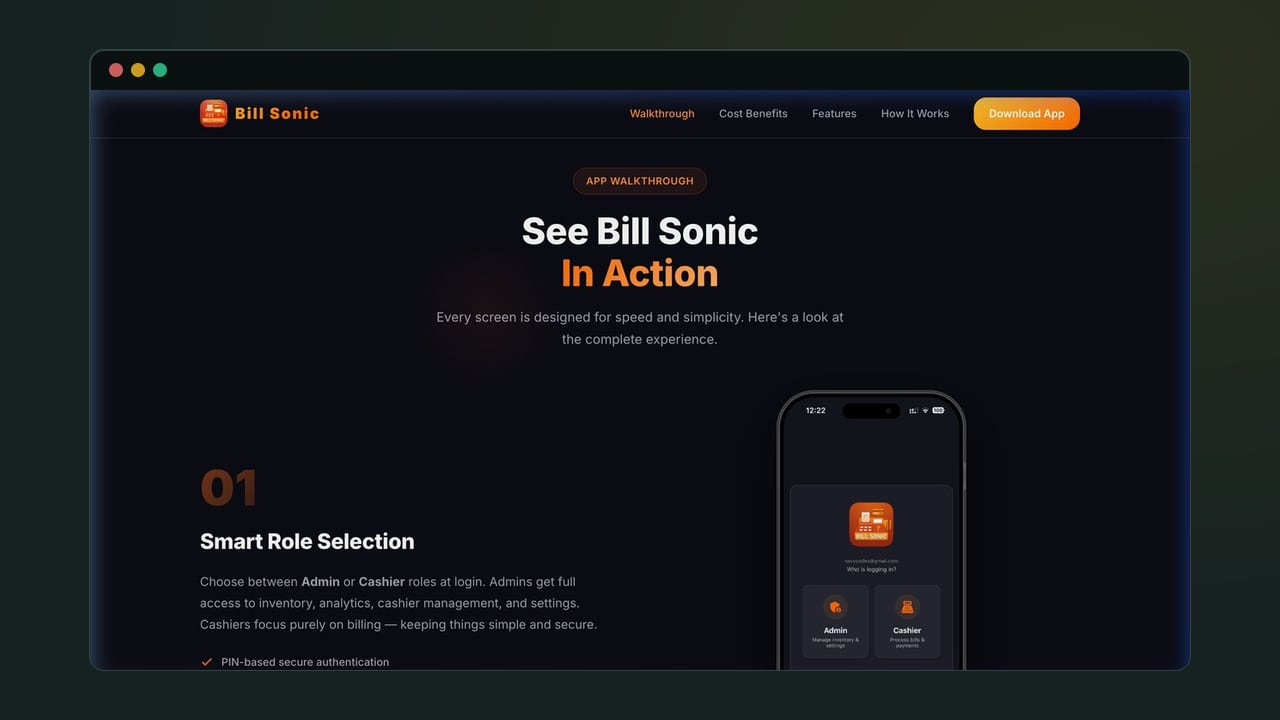
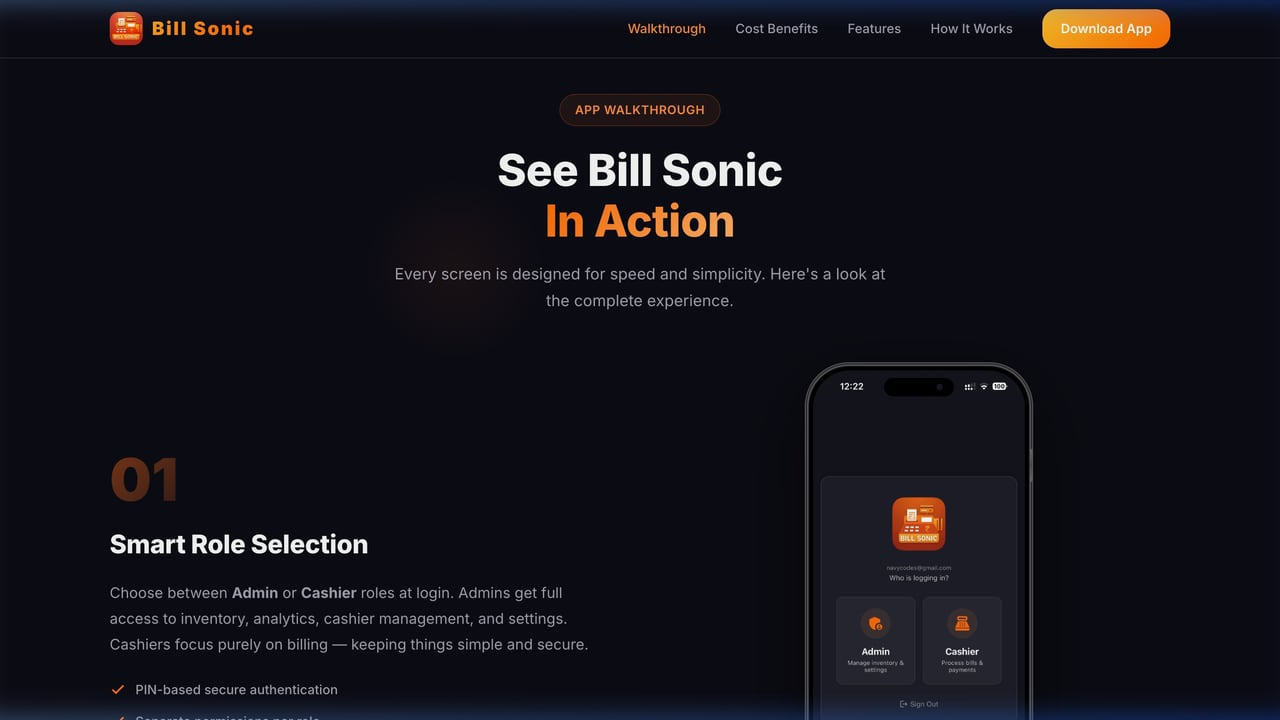
Thumbnails: original VedicFlow and Bill Sonic images, real GeoScout screenshot, no frames
Claude-Session: https://claude.ai/code/session_01Gi9NdFG1cQsiecXMp1WD36

Changed region(s): [[0.0, 0.0, 1.0, 1.0], [0.3125, 0.2139, 0.6875, 0.4889]]

diff --git a/README.md b/README.md
@@ -69,10 +69,9 @@ All content lives in `src/data/`. Adding an entry there creates its page, sitema
 |---|---|
 | `node scripts/make-diagrams.mjs` | Architecture diagrams in `src/assets/diagrams/` (projects and papers `paper-*.svg`) |
 | `node scripts/make-thumbnails.mjs` | Project thumbnails: the diagram, or a screenshot from `scripts/thumb-sources/` in a browser or phone frame. No project name on the image. |
-| `node scripts/make-geoscout-thumb.mjs` | GeoScout IQ thumbnail: a drawn hex heatmap with pins and a score card (the live demo needs Google Maps, so it can't be screenshotted here) |
 | `node scripts/make-og-image.mjs` | Link-preview card `public/og-image.png` |
 
-`scripts/thumb-data.mjs` lists which projects get which thumbnail style. Entries marked `custom` are skipped by `make-thumbnails.mjs`.
+`scripts/thumb-data.mjs` lists which projects get which thumbnail style. `frame: "none"` uses the screenshot as it is (VedicFlow, Bill Sonic, GeoScout IQ).
 
 ---
 
@@ -99,5 +98,5 @@ All content lives in `src/data/`. Adding an entry there creates its page, sitema
 - **Research pages:** each of the 5 papers has an architecture diagram, a flowchart, results tables and plain-language key points. Added the IECS 2026 paper *On-Demand Multimodal RAG*.
 - **CCTV IQ:** updated for the two-camera setup: first and last sighting on either camera, time inside minus breaks, a glass-zone mask, a score floor fitted to real data, a process supervisor, and *Ask Iris* (plain-English questions answered with Claude on AWS Bedrock). New diagram.
 - **Discount Spend Optimization:** updated for the Databricks pipeline: one Excel config, 18 product lines, elasticity buckets, a two-model track for competing packs, MLflow tracking and a P&L simulator. New diagram.
-- **GeoScout IQ:** new thumbnail.
+- **Thumbnails:** VedicFlow and Bill Sonic back to their original images; GeoScout IQ uses a real app screenshot.
 - **Back navigation:** fixed returning to the top of the home page. The Certifications section was scrolling to the top on load.
